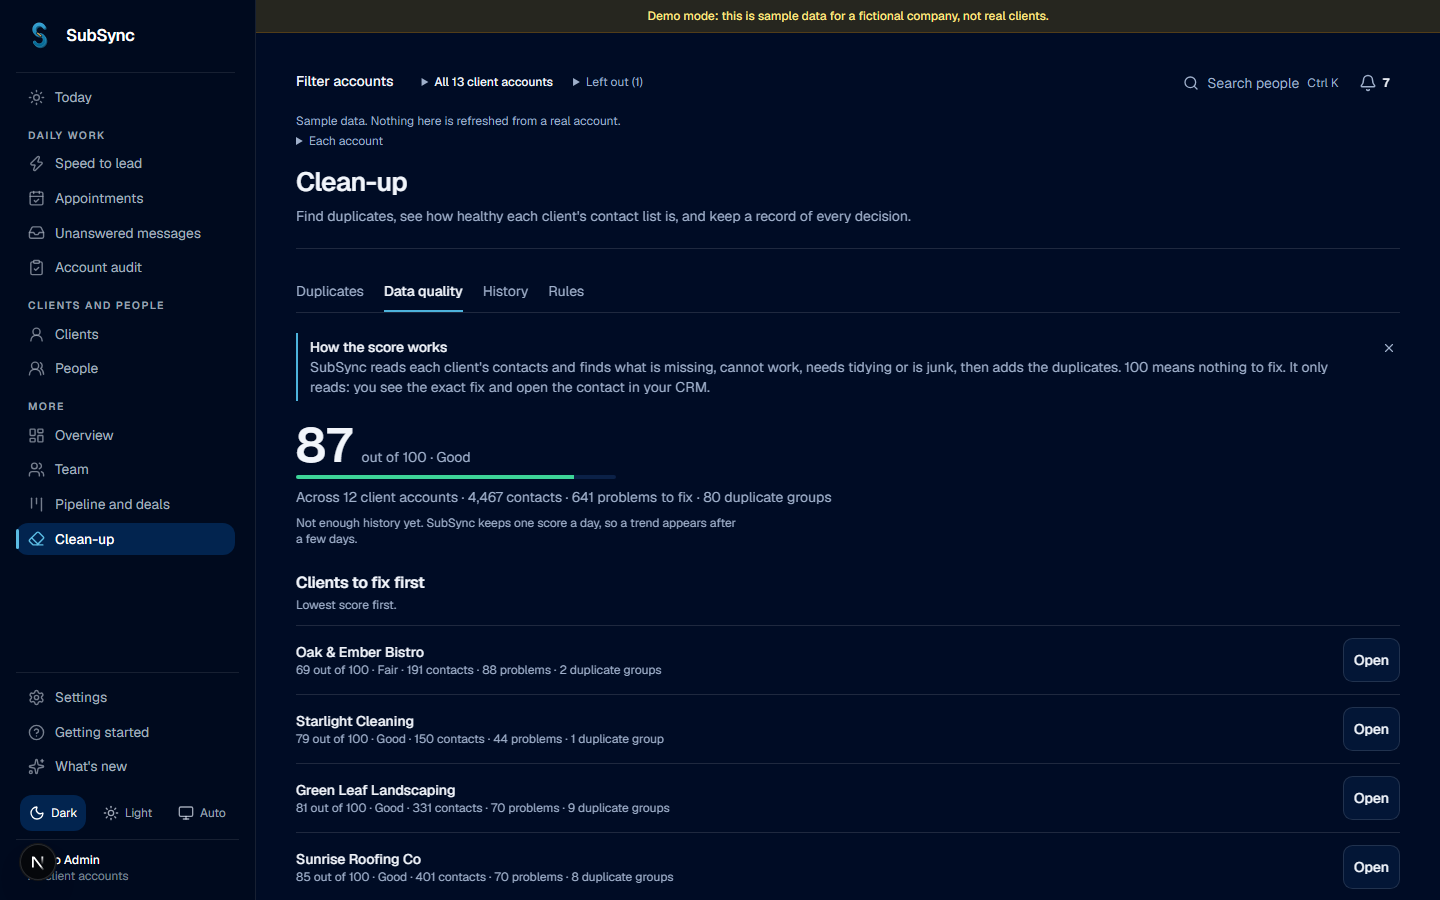
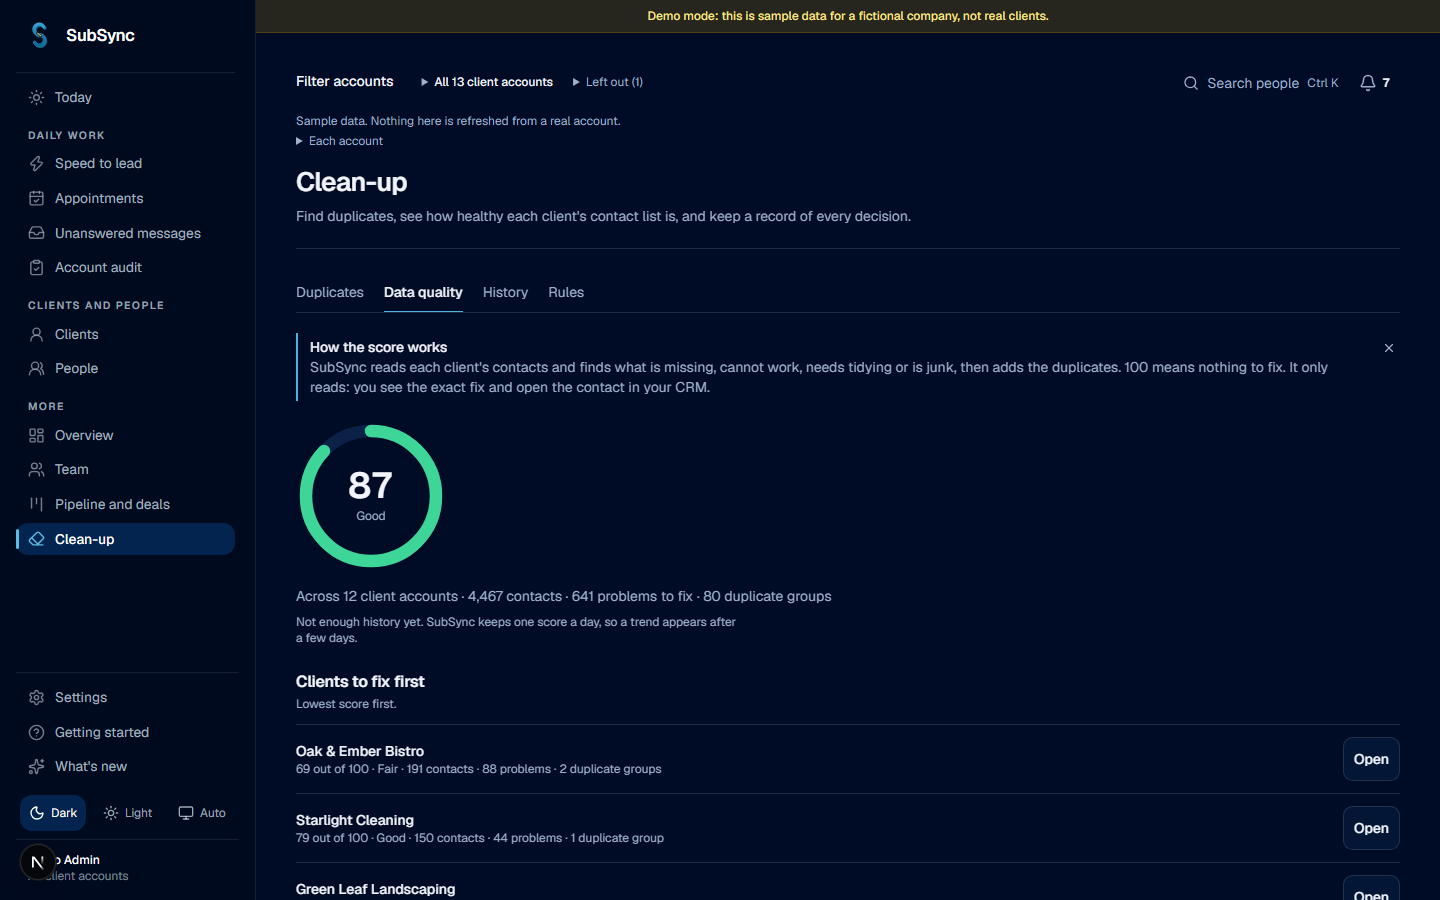
stage CLEANUP: rules can be tried without saving, docs, screenshots, verification record

diff --git a/src/app/app/views/rules-tab.tsx b/src/app/app/views/rules-tab.tsx
@@ -59,7 +59,7 @@ export function RulesTab({ canEdit }: { canEdit: boolean }) {
       <HowTo id="rules" title="You choose how careful SubSync is">
         These choices only change which contacts SubSync suggests are duplicates and which value it suggests keeping. They never change a contact. Normal is how SubSync has always matched.
       </HowTo>
-      {!data.ready.rules && <div className="mb-4"><InlineAlert tone="warning">Saving rules is not available yet: SubSync is finishing an update. You can look, but not save.</InlineAlert></div>}
+      {!data.ready.rules && <div className="mb-4"><InlineAlert tone="warning">Saving rules is not available yet: SubSync is finishing an update. You can try the settings and see what they would find, but not save them.</InlineAlert></div>}
 
       {data.multi && (
         <Section title="Which client" hint={`${fmtInt(data.total)} client accounts. A client without its own choice follows the company default.`} id="rules-scope">
@@ -89,7 +89,7 @@ export function RulesTab({ canEdit }: { canEdit: boolean }) {
 
       {target ? (
         <Editor key={(scope || data.selected?.locationId || "x") + JSON.stringify(target.match) + String(target.mergeWorkflowId)} data={data} cfg={target} scope={scope === "company" ? "company" : data.selected!.locationId} name={name}
-          own={scope === "company" ? "company" : data.selected!.source} canEdit={canEdit && data.ready.rules && (scope !== "company" || data.ready.defaults)} onSaved={reload} />
+          own={scope === "company" ? "company" : data.selected!.source} canEdit={canEdit} canSave={canEdit && data.ready.rules && (scope !== "company" || data.ready.defaults)} onSaved={reload} />
       ) : null}
 
       <Section title="Stop new duplicates" hint="Five steps in your CRM, so the list stops growing." id="rules-prevent" className="mt-8">
@@ -103,7 +103,7 @@ export function RulesTab({ canEdit }: { canEdit: boolean }) {
   );
 }
 
-function Editor({ data, cfg, scope, name, own, canEdit, onSaved }: { data: Data; cfg: Cfg; scope: string; name: string; own: string; canEdit: boolean; onSaved: () => void }) {
+function Editor({ data, cfg, scope, name, own, canEdit, canSave, onSaved }: { data: Data; cfg: Cfg; scope: string; name: string; own: string; canEdit: boolean; canSave: boolean; onSaved: () => void }) {
   const api = useApiClient();
   const [rules, setRules] = useState<MatchRules>(cfg.match);
   const [survive, setSurvive] = useState<Survivorship>(cfg.survive ?? DEFAULT_SURVIVORSHIP);
@@ -189,7 +189,7 @@ function Editor({ data, cfg, scope, name, own, canEdit, onSaved }: { data: Data;
           <input id="wf" className={`${FIELD} w-full`} disabled={!canEdit} placeholder="Paste the id from your CRM" value={wf} onChange={(e) => setWf(e.target.value)} data-testid="workflow-id" autoComplete="off" /></div>
       </Section>
 
-      {canEdit && (
+      {canSave && (
         <div className="mt-4 flex flex-col gap-2 sm:flex-row sm:items-center">
           <button type="button" className={PRIMARY} disabled={busy || !dirty} onClick={() => void save()} data-testid="rules-save">{busy ? "Saving..." : "Save these rules"}</button>
           {scope !== "company" && own === "account" && data.canCompany && <button type="button" className={QUIET} disabled={busy} onClick={() => void back()} data-testid="rules-clear">Go back to the company default</button>}

diff --git a/docs/features/CLEANUP.md b/docs/features/CLEANUP.md
@@ -53,17 +53,64 @@ Everything that changes a client's contacts goes through `src/lib/ghl/crm-gatewa
 
 In `docs/METRICS.md`, section "Clean-up: data quality, match score and matching rules": the twelve findings, the score and its five parts, the trend rule, the new-duplicates alert, the pair score, the three presets, and which value wins.
 
-## 5. Tests and verification
+## 5. Tests written
 
-(see section 7 for the exact commands and their results)
+Node (`src/lib/__tests__`): `cleanup-v2.test.ts` (nicknames, initials, spelling, transposed digits, shared household phone, shared company mailbox, placeholder numbers, presets, common names, survivorship, every finding and its exact fix, the score and a tiny sample, the trend, worst-first, the import check), `cleanup-history.test.ts` (history sentences, undo rules, 150 accounts and 5,100 groups, a 20,000-contact scan), `crm-gateway.test.ts` (stubbed platform only: switched off, no opt-in, audited with ids only, the merge route's blockers and results). Database (`tests/unit/cleanup-v2-db.test.ts`, forged ids on every new route, a client's staff refused, what-would-this-setting-find, the import check stored nowhere, history and undo, apply never reaches the platform, 150 accounts) and `cleanup-nav.test.ts`. Browser: `tests/e2e/cleanup-v2.spec.ts` (four roles at three widths, menu and old addresses, a setting changes the groups, data quality count equals rows, a pasted file, history, merging explained). Updated: `dedupe.test.ts`, `cleanup-intel.test.ts`, `duplicates-merge.spec.ts`, `menu.spec.ts`, `s02b.spec.ts` (one word each).
 
-## 6. Design skills run
+## 6. Design skills run (what each changed)
 
-(see below, filled in after the screens were photographed)
+- **Design critique.** Found: the trend sentence wrapped in a narrow box; the page opened on a tip box before the number; the Duplicates screen was a stack of technical blocks (score, bullet list, rules note, table) around the merge button. Changed: trend boxes widened; and, with King's feedback of 5 Nov, the whole Duplicates screen was redesigned: one question ("Are these the same person?"), two cards showing only what differs, a match meter with one plain reason, "Yes, combine them" beside "No, different people", everything technical behind "How we decided"; Data quality opens with a score ring and three big cards. Kept (worked): the calm column, no pills, compact right-hand row buttons.
+- **Accessibility review.** Found: the score bar was announced twice (an image label and the number); the "Copy the fixes" and "Download" buttons repeated on every row with the same name; the import result was not announced. Changed: the bar is hidden from assistive technology and the number carries a spoken label; each row button names its problem; the import result is a status region. Checked: tabs are a real tab list with arrow keys; radios sit in a labelled group; the strictness slider has a label and a description; every phone button is 44 px; fast-review keys work only after the person turns the switch on (WCAG 2.1.4); the ring is hidden decoration with a spoken sentence.
+- **UX copy.** Changed: "Merge now" to "Start the merge"; "Strict, Balanced, Loose" to "Careful, Normal, Thorough"; "duplicate groups" to "people appear more than once"; "A pair needs a score of 50" to "Likely matches are shown"; the database-update messages to "not available yet, SubSync is finishing an update". Kept: "Decide later", "Skip", "Undo", the plain history sentences.
+- **Dataviz palette check.** The ring and the bars use the app's own status colours (success, warning, destructive) and always carry the number and a word (colour is never the only signal); the trend is the existing one-line sparkline in the single series colour. No new chart type, no categorical palette, so the validator was not needed.
 
-## 7. Verification record
+### Customer-eyes improvements (KF-5)
 
-(see below)
+| What | Persona | Where |
+|---|---|---|
+| A plain summary with an estimate of the time ("about 27 minutes") and a progress bar | P2 | Duplicates |
+| "Combine all the sure ones" previews the list first | P2 | Duplicates |
+| Fast review: Y, N, L or swipe | P3 setter, P2 | Duplicates |
+| What a setting would find, before saving it | P1, P2 | Rules |
+| Three big cards with a real before and after | P1, P4 | Data quality |
+| Check a file before importing, copy only the new people | P2 | Data quality |
+| Copy the fixes as CSV, open each contact in the CRM | P2 | Data quality |
+| Copyable five-step recipe to stop new duplicates; copyable merge-workflow steps | P2 | Rules |
+| History with Undo | P1, P4 | History |
+
+## 7. Verification record (commands run in `C:\Users\KING\wt\CLEANUP`, 4 to 5 Nov 2026)
+
+| Command | Result |
+|---|---|
+| `npx next typegen && npx tsc --noEmit` | clean |
+| `npx eslint src tests scripts/check-tenancy.ts` | 0 errors, 13 warnings |
+| `node --test src/lib/__tests__/` | 944 tests, 944 pass |
+| `npx vitest run tests/unit/cleanup-v2-db.test.ts tests/unit/cleanup-nav.test.ts tests/unit/client-access.test.ts tests/unit/ds-components.test.ts tests/unit/tenant-tables.test.ts tests/unit/data-inventory.test.ts --no-file-parallelism` | 65 pass, 1 fails: the live-database half of `data-inventory.test.ts`, because the migration `20261105120000_cleanup_v2.sql` is not applied to the live database (the inventory names its 3 columns and 1 table). It passes once the migration is applied. The migration-file half passes. |
+| `PW_BASE_URL=http://localhost:3191 npx playwright test tests/e2e/cleanup-v2.spec.ts --project=desktop-1440` | 9 of 9 pass (one test was re-run alone after a fix: the strictness choices were disabled while the database update was missing; now they can be tried without saving) |
+| the four role tests at `phone-390` and `tablet-768` (no sideways scroll, plain words, tabs per role, 44 px phone buttons) | 8 of 8 pass |
+| `scripts/check-tenancy.ts`, the integration chain, the full e2e suite | NOT run (the brief forbids it; the lead runs tenancy alone). New read addresses and 7 forged writes were appended to `scripts/check-tenancy.ts`. |
+
+Screenshots: `docs/review/cleanup-<role>-<390|768|1440>.png` for the four roles (agency all accounts, agency inside one account, a client's staff, a business owner), plus `cleanup-agency-all-rules-1440.png` and `cleanup-agency-all-history-1440.png`.
+
+## 8. NOT verified
+
+- **Every real CRM call.** Tests use a stubbed platform only. The merge-workflow route (is a published workflow required, the `Version` header, which record survives, Do Not Disturb, conversations and deals after a workflow merge) and the field updates through the new gateway were never run against the platform; the first live test plan is `docs/NEEDS_KING.md` 29 (e).
+- **Saving rules, the per-account switch and the score history** were exercised only through code paths that skip when the migration is missing (the database test marks them "needs the update"); they run once the migration is applied. The strictness preview ("what would this setting find") was verified live on the demo: Careful 5 groups, Normal 10, Thorough 55 for one client.
+- **The daily scan and the new-duplicates alert** need the snapshot table; their code ran only in the part that does not need it. UNSURE: how long the daily scan takes for an agency of 100 accounts with 50,000 contacts each (it is time-budgeted at 25 seconds per refresh and resumes).
+- **Fast review on a real phone** (swipe) was not tried on a device; keys Y, N and L and the buttons were exercised in code review only, not in a browser run.
+- **Real agency scale.** 150 accounts and 5,100 groups were tested in units; a 20,000-contact account was scanned in a unit test; no real agency with 100 accounts was used.
+- **The UI research** rests on two pages read in full (HubSpot, Insycle) and review summaries for the rest.
 
 ## FOR THE LEAD
-(see below)
+
+**Log entry.** Stage CLEANUP: Clean-up module (Duplicates, Data quality, History, Rules), one write gateway, the friendly redesign. BUILT, awaiting King's checks. Decisions for King: switching writing on (NEEDS_KING 29; recommend yes, one throwaway test account first); a client's staff keep Duplicates and gain History only (DECIDED FOR KING); the older Data cleanup apply is now behind the gateway (a behaviour change, no real use lost). UNSURE: see section 8. NOT VERIFIED LIVE: every CRM write.
+
+**Migration.** `supabase/migrations/20261105120000_cleanup_v2.sql`: `locations.cleanup_rules jsonb`, `locations.cleanup_write_enabled boolean not null default false`, `settings.cleanup_defaults jsonb`, new table `cleanup_quality_snapshots` (RLS on, no policy, like its siblings). **Additive: yes. Idempotent: yes. NOT applied by me** (the brief). The old code never reads any of it; the new code works without it (Normal matching, writing off, no history). Needs applying before the rules, the switch and the score trend work; `tests/unit/data-inventory.test.ts` (live half) fails until it is.
+
+**Shared logs.** The task asked for entries, so I appended (end of file only) to `docs/NEEDS_KING.md` (new section 29, renumber if another stage took it), `docs/DECISIONS.md`, `docs/METRICS.md`, `docs/TENANCY.md`, `docs/PROPOSALS.md`. Not touched: `PROGRESS.md`, `FEATURE_STATUS.md`, `NOTES_COVERAGE.md`, `OVERNIGHT_LOG.md`.
+
+**Coverage updates.** None (no note id is about this; it answers King's chat instruction).
+
+**Files likely to conflict at merge:** `src/app/app/nav.ts` (the Duplicates and Data cleanup lines became Clean-up and Duplicates-as-child, plus one PARENT entry); `src/app/app/dashboard.tsx` (the imports, the `menu` line, the two `case` lines); `src/lib/api/router.ts` (imports, one dispatch block before the speed block, the cleanup apply gate, `cleanupView`); `src/lib/api/duplicates-routes.ts` and `src/app/app/views/duplicates.tsx` and `duplicates-parts.tsx` (the Duplicates stage's files, heavily changed); `src/lib/analytics/dedupe.ts`, `dedupe-review.ts`, `dedupe-queries.ts`; `src/lib/analytics/service.ts` (3 lines in `refreshInsights`); `src/lib/notifications/catalog.ts` (one word); `src/app/app/views/settings.tsx` (one import, one line); `src/lib/demo/dupes-demo.ts`; `src/lib/data-inventory.ts`, `src/lib/tenant-tables.ts`; `scripts/check-tenancy.ts` (additions); `tests/e2e/duplicates-merge.spec.ts`, `menu.spec.ts`, `s02b.spec.ts` (one word each); the appended docs.
+
+**Local-only change not committed:** `next.config.ts` has a `turbopack.root` line (skip-worktree).
